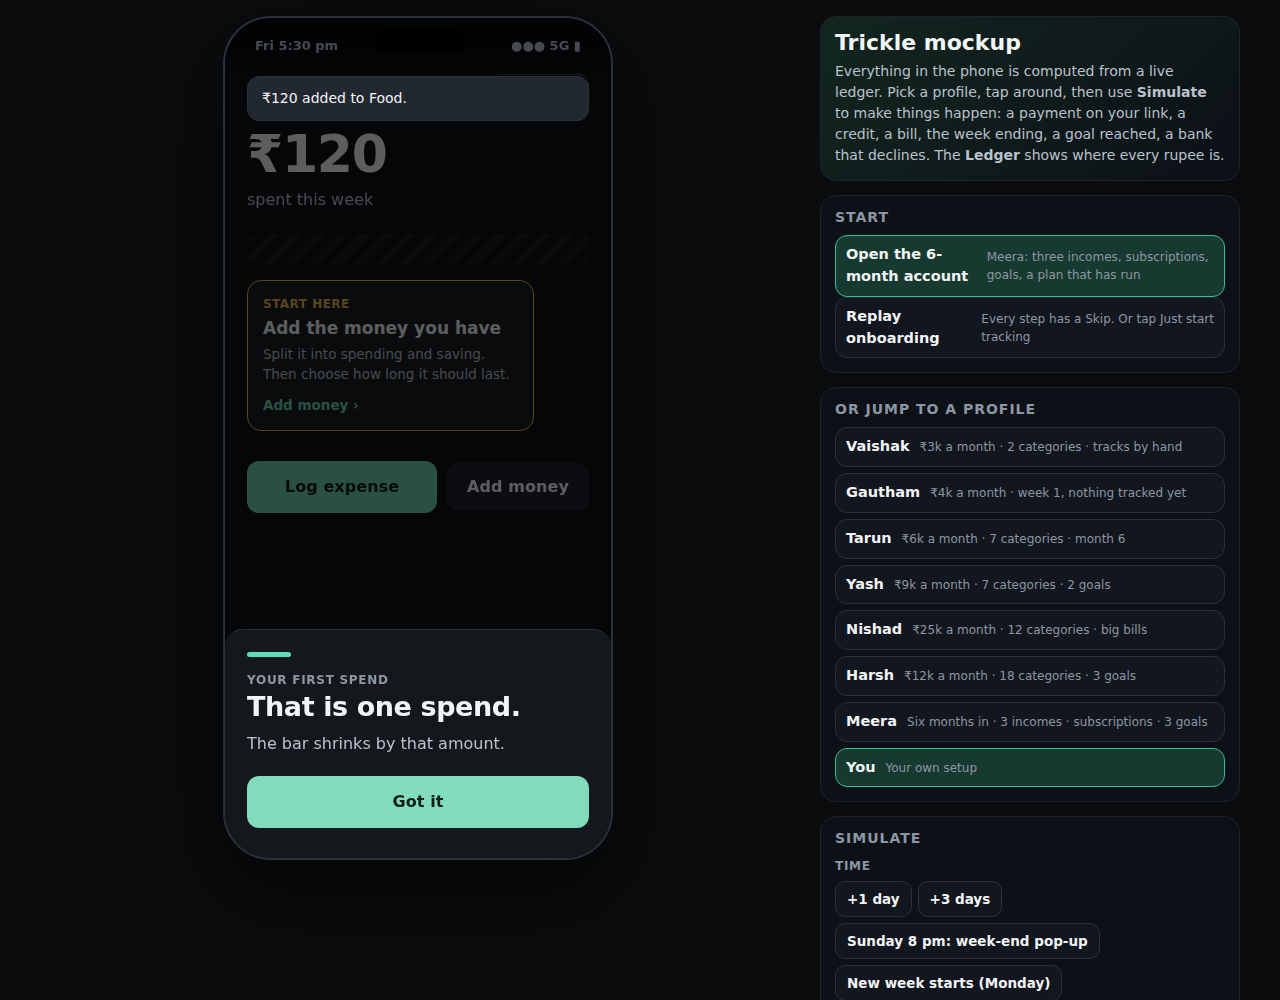
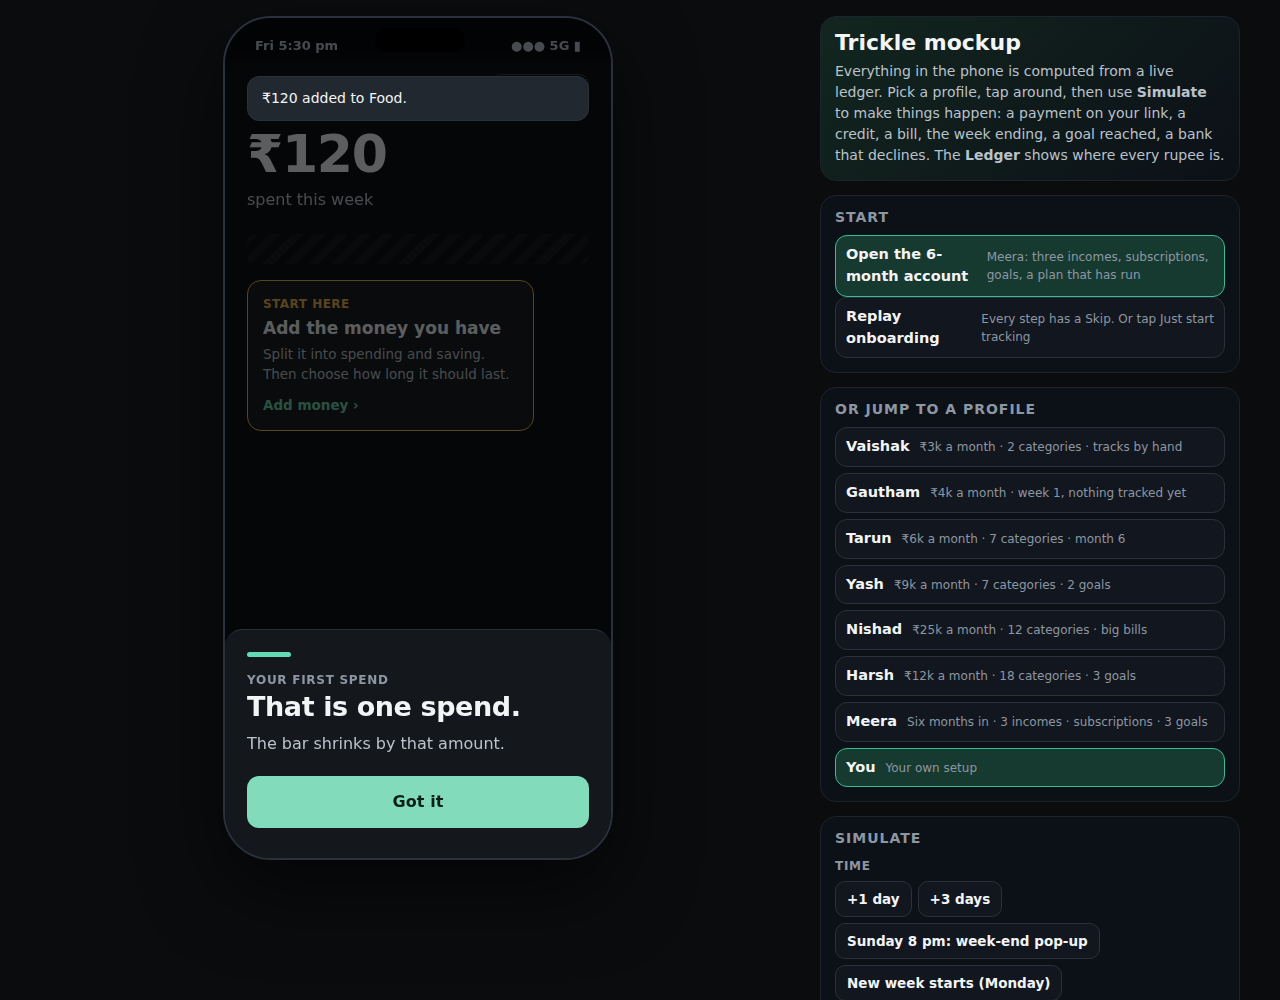
v17.10: buttons pinned low; recommended limit cards and quick limits under the insight cards; V17-32
Claude-Session: https://claude.ai/code/session_018X24G78A47pCQxY7X53pHo

Changed region(s): [[0.1875, 0.434, 0.3438, 0.527], [0.375, 0.465, 0.4375, 0.496]]

diff --git a/archive/session-workfiles/mockup17/mockup17.html b/archive/session-workfiles/mockup17/mockup17.html
@@ -2324,8 +2324,8 @@ SCREENS.home=()=>{const pl=planned();let top,viz,cap='';
   viz=`<div style="margin:22px 0 22px" data-a="gridhow">${battery(L,W,{col,tick:weekIdeal(),label:'Recommended'})}</div>`;
   cap=empty?'':`<div class="row sp" style="align-items:center;margin:0 0 14px"><span class="sub">${money(L/dl)} a day for ${dl===1?'today':dl+' days'}</span><button class="chip" data-a="gridhow">?</button></div>`}
  else{const tot=wkTot(0);top=tot?`<div class="hero" style="font-size:52px;line-height:1.05">${money(tot)}</div><div class="sub" style="margin-top:6px;font-size:16px">spent this week</div>`:`<div class="title" style="font-size:28px">Nothing logged yet.</div>`;viz=`<div style="margin:22px 0 14px"><div class="batt idle"></div></div>`}
- return `<div class="row sp" style="margin-top:2px"><span></span><button class="chip" data-a="settings">Settings</button></div><div style="margin-top:14px">${top}</div>${viz}${cap}${carousel17()}
- <div style="position:sticky;bottom:0;margin-top:18px;padding-top:10px"><div class="row" style="gap:10px"><button class="btn" style="flex:3" data-a="${scanOn()?'payscan':'pay'}">Log expense</button><button class="btn q" style="flex:2;white-space:nowrap" data-a="addmoney17">Add money</button></div></div>`};
+ return `<div style="min-height:100%;display:flex;flex-direction:column"><div class="row sp" style="margin-top:2px"><span></span><button class="chip" data-a="settings">Settings</button></div><div style="margin-top:14px">${top}</div>${viz}${cap}${carousel17()}${limitsHome17()}
+ <div style="position:sticky;bottom:-4px;margin:auto -22px 0;padding:14px 22px 6px;background:#0F1215"><div class="row" style="gap:10px"><button class="btn" style="flex:3" data-a="${scanOn()?'payscan':'pay'}">Log expense</button><button class="btn q" style="flex:2;white-space:nowrap" data-a="addmoney17">Add money</button></div></div></div>`};
 SHEETS.gridhow=()=>{const W=Math.max(1,flexW());return `<div class="title" style="font-size:24px;margin-bottom:14px">How to read the bar</div><div style="margin:6px 0 34px">${battery(W*.62,W,{tick:.45,label:'Recommended'})}</div><div class="col" style="gap:10px"><div class="sub">The bar is what you have left this week.</div><div class="sub">The line is what we recommend you have left by now.</div><div class="sub"><b style="color:#6FD3AE">Green</b>: on track. <b style="color:#E6B24F">Yellow</b>: below the line, spending fast. <b style="color:#F26B6B">Red</b>: nothing left.</div></div><div class="row sp" style="margin-top:18px"><button class="lnk" data-a="why|bar">Why a bar?</button><button class="btn s" data-a="closesheet" style="width:auto">OK</button></div>`};
 
 /* ---------- Spending: one list. Patterns and records are one tap down ---------- */
@@ -2618,6 +2618,18 @@ H.incedit=a=>{UI.flow.d.ev='';openSheet('amtedit',{which:a[0]});return false};
 SHEETS.amtedit=p=>{const d=UI.flow.d,t=amtOf(d.kp),sav=savCalc(d,t,d.pct===undefined?20:d.pct),cur=p.which==='sav'?sav:t-sav,v=amtOf(d.ev);
  return `<div class="cap">Of ${money(t)}</div><div class="title" style="font-size:26px;margin:2px 0 6px">${p.which==='sav'?'How much to save?':'How much to spend?'}</div><div class="field" style="font-size:32px">₹ ${d.ev||`<span style="color:var(--ink3)">${cur}</span>`}</div>${v>t?`<div class="sm" style="color:var(--amber);margin-top:6px">That is more than ${money(t)}. It will be ${money(t)}.</div>`:`<div class="sm" style="margin-top:6px">${v?(p.which==='sav'?`Then ${money(t-v)} is for spending.`:`Then ${money(t-v)} is saved.`):'Type a number, or tap Cancel.'}</div>`}${keypad('ev')}<div class="col" style="gap:8px;margin-top:10px"><button class="btn ${d.ev!==''?'':'d'}" data-a="${d.ev!==''?'amtdone|'+p.which:'x'}">Done</button><button class="btn q" data-a="closesheet">Cancel</button></div>`};
 H.amtdone=a=>{const d=UI.flow.d,t=amtOf(d.kp),v=Math.min(t,amtOf(d.ev)),sav=a[0]==='sav'?v:t-v;d.savX=sav;d.pct=t?Math.round(sav/t*100):0;d.ev='';UI.sheet=null};
+
+/* ===== v17.10 (10 Oct): limits live under the insight cards: recommended limits (one tap) and quick limits ===== */
+{const _car=carousel17;carousel17=function(){const c=cards17().filter(x=>x.tag!=='Limit');if(!c.length)return '';
+  return `<div class="car17" id="car17">${c.map(x=>`<button class="cd17${x.hot?' hot':''}" data-a="${x.a}"><span class="tg">${x.tag}</span><b>${esc(x.t)}</b>${x.sub?`<span class="sb">${esc(x.sub)}</span>`:''}${x.mini||''}${x.cta?`<span class="go">${x.cta} ›</span>`:''}</button>`).join('')}</div>${c.length>1?`<div class="dots17" id="dots17">${c.map((_,i)=>`<i class="${i?'':'on'}"></i>`).join('')}</div>`:''}`}}
+const limLabel17=(kind,cap)=>kind==='times'?`${cap} ${cap===1?'visit':'visits'} a week`:`${money(cap)} a week`;
+function limitsHome17(){if(!planned())return '';const sg=suggestions().slice(0,2),now=S.now.getTime(),used=new Set(sg.filter(s=>s.scope==='cat').map(s=>s.ref));
+ const rows=catTotals(now-7*DAY,now+1).filter(r=>r.id!=='_u'&&!used.has(r.id)&&!(S.limits||[]).some(l=>l.scope==='cat'&&l.ref===r.id)&&!S.limNo['c'+r.id]&&r.amt>0).slice(0,4);
+ const cards=sg.map(s=>{const cap=limDefault(s.scope,s.ref,s.kind);return `<div class="card" style="padding:12px 14px;margin-top:10px"><div class="cap" style="margin:0 0 4px">Recommended limit</div><b style="font-size:16px">${esc(s.short)}</b><div class="sm" style="margin-top:2px">${esc(s.text)}</div><div class="row" style="gap:8px;margin-top:10px"><button class="btn s" style="flex:2" data-a="limquick|${s.key}">Set ${limLabel17(s.kind,cap)}</button><button class="btn q s" style="flex:1" data-a="limsug|${s.key}">Change</button></div></div>`}).join('');
+ const chips=rows.length?`<div class="cap" style="margin:16px 0 8px">Quick limits</div><div class="row wrap" style="gap:8px">${rows.map(r=>`<button class="chip" data-a="limquickc|${r.id}">${esc(catName(r.id))} · ${money(limDefault('cat',r.id,'amt'))}</button>`).join('')}</div>`:'';
+ if(!cards&&!chips)return '';return `<div style="margin-top:6px">${cards}${chips}</div>`}
+H.limquick=a=>{const s=suggestions().find(x=>x.key===a[0]);if(!s)return false;S.limits=S.limits.filter(l=>!(l.scope===s.scope&&l.ref===s.ref));S.limits.push({id:'l'+(S.idc++),scope:s.scope,ref:s.ref,kind:s.kind,cap:limDefault(s.scope,s.ref,s.kind)});say('Limit set.');return false};
+H.limquickc=a=>{const id=a[0];if(!S.cats.some(c=>c.id===id))return false;S.limits=S.limits.filter(l=>!(l.scope==='cat'&&l.ref===id));S.limits.push({id:'l'+(S.idc++),scope:'cat',ref:id,kind:'amt',cap:limDefault('cat',id,'amt')});say(`Limit set for ${catName(id)}.`);return false};
 
 /* ===== control panel ===== */
 function loadProfile(k){S=newState(k);S.moneyIn=[{id:'m0',t:new Date(2026,9,1,9,0).getTime(),label:'Allowance',amt:S.p.income,note:''}];if(S.p.six)seedSix();else if(S.p.W>0){S.planSet=true;S.cats.forEach(c=>c.full=c.amt);S.bufFull=S.bufAmt;S.firstDay=new Date(S.now.getTime()-S.p.weeks*7*DAY)}resetUI();window._celeLock=false;render();fitPhone()}

diff --git a/archive/session-workfiles/mockup17/ui17e.js b/archive/session-workfiles/mockup17/ui17e.js
@@ -52,3 +52,15 @@ H.incedit=a=>{UI.flow.d.ev='';openSheet('amtedit',{which:a[0]});return false};
 SHEETS.amtedit=p=>{const d=UI.flow.d,t=amtOf(d.kp),sav=savCalc(d,t,d.pct===undefined?20:d.pct),cur=p.which==='sav'?sav:t-sav,v=amtOf(d.ev);
  return `<div class="cap">Of ${money(t)}</div><div class="title" style="font-size:26px;margin:2px 0 6px">${p.which==='sav'?'How much to save?':'How much to spend?'}</div><div class="field" style="font-size:32px">₹ ${d.ev||`<span style="color:var(--ink3)">${cur}</span>`}</div>${v>t?`<div class="sm" style="color:var(--amber);margin-top:6px">That is more than ${money(t)}. It will be ${money(t)}.</div>`:`<div class="sm" style="margin-top:6px">${v?(p.which==='sav'?`Then ${money(t-v)} is for spending.`:`Then ${money(t-v)} is saved.`):'Type a number, or tap Cancel.'}</div>`}${keypad('ev')}<div class="col" style="gap:8px;margin-top:10px"><button class="btn ${d.ev!==''?'':'d'}" data-a="${d.ev!==''?'amtdone|'+p.which:'x'}">Done</button><button class="btn q" data-a="closesheet">Cancel</button></div>`};
 H.amtdone=a=>{const d=UI.flow.d,t=amtOf(d.kp),v=Math.min(t,amtOf(d.ev)),sav=a[0]==='sav'?v:t-v;d.savX=sav;d.pct=t?Math.round(sav/t*100):0;d.ev='';UI.sheet=null};
+
+/* ===== v17.10 (10 Oct): limits live under the insight cards: recommended limits (one tap) and quick limits ===== */
+{const _car=carousel17;carousel17=function(){const c=cards17().filter(x=>x.tag!=='Limit');if(!c.length)return '';
+  return `<div class="car17" id="car17">${c.map(x=>`<button class="cd17${x.hot?' hot':''}" data-a="${x.a}"><span class="tg">${x.tag}</span><b>${esc(x.t)}</b>${x.sub?`<span class="sb">${esc(x.sub)}</span>`:''}${x.mini||''}${x.cta?`<span class="go">${x.cta} ›</span>`:''}</button>`).join('')}</div>${c.length>1?`<div class="dots17" id="dots17">${c.map((_,i)=>`<i class="${i?'':'on'}"></i>`).join('')}</div>`:''}`}}
+const limLabel17=(kind,cap)=>kind==='times'?`${cap} ${cap===1?'visit':'visits'} a week`:`${money(cap)} a week`;
+function limitsHome17(){if(!planned())return '';const sg=suggestions().slice(0,2),now=S.now.getTime(),used=new Set(sg.filter(s=>s.scope==='cat').map(s=>s.ref));
+ const rows=catTotals(now-7*DAY,now+1).filter(r=>r.id!=='_u'&&!used.has(r.id)&&!(S.limits||[]).some(l=>l.scope==='cat'&&l.ref===r.id)&&!S.limNo['c'+r.id]&&r.amt>0).slice(0,4);
+ const cards=sg.map(s=>{const cap=limDefault(s.scope,s.ref,s.kind);return `<div class="card" style="padding:12px 14px;margin-top:10px"><div class="cap" style="margin:0 0 4px">Recommended limit</div><b style="font-size:16px">${esc(s.short)}</b><div class="sm" style="margin-top:2px">${esc(s.text)}</div><div class="row" style="gap:8px;margin-top:10px"><button class="btn s" style="flex:2" data-a="limquick|${s.key}">Set ${limLabel17(s.kind,cap)}</button><button class="btn q s" style="flex:1" data-a="limsug|${s.key}">Change</button></div></div>`}).join('');
+ const chips=rows.length?`<div class="cap" style="margin:16px 0 8px">Quick limits</div><div class="row wrap" style="gap:8px">${rows.map(r=>`<button class="chip" data-a="limquickc|${r.id}">${esc(catName(r.id))} · ${money(limDefault('cat',r.id,'amt'))}</button>`).join('')}</div>`:'';
+ if(!cards&&!chips)return '';return `<div style="margin-top:6px">${cards}${chips}</div>`}
+H.limquick=a=>{const s=suggestions().find(x=>x.key===a[0]);if(!s)return false;S.limits=S.limits.filter(l=>!(l.scope===s.scope&&l.ref===s.ref));S.limits.push({id:'l'+(S.idc++),scope:s.scope,ref:s.ref,kind:s.kind,cap:limDefault(s.scope,s.ref,s.kind)});say('Limit set.');return false};
+H.limquickc=a=>{const id=a[0];if(!S.cats.some(c=>c.id===id))return false;S.limits=S.limits.filter(l=>!(l.scope==='cat'&&l.ref===id));S.limits.push({id:'l'+(S.idc++),scope:'cat',ref:id,kind:'amt',cap:limDefault('cat',id,'amt')});say(`Limit set for ${catName(id)}.`);return false};

diff --git a/archive/session-workfiles/mockup17/ui17.js b/archive/session-workfiles/mockup17/ui17.js
@@ -17,8 +17,8 @@ SCREENS.home=()=>{const pl=planned();let top,viz,cap='';
   viz=`<div style="margin:22px 0 22px" data-a="gridhow">${battery(L,W,{col,tick:weekIdeal(),label:'Recommended'})}</div>`;
   cap=empty?'':`<div class="row sp" style="align-items:center;margin:0 0 14px"><span class="sub">${money(L/dl)} a day for ${dl===1?'today':dl+' days'}</span><button class="chip" data-a="gridhow">?</button></div>`}
  else{const tot=wkTot(0);top=tot?`<div class="hero" style="font-size:52px;line-height:1.05">${money(tot)}</div><div class="sub" style="margin-top:6px;font-size:16px">spent this week</div>`:`<div class="title" style="font-size:28px">Nothing logged yet.</div>`;viz=`<div style="margin:22px 0 14px"><div class="batt idle"></div></div>`}
- return `<div class="row sp" style="margin-top:2px"><span></span><button class="chip" data-a="settings">Settings</button></div><div style="margin-top:14px">${top}</div>${viz}${cap}${carousel17()}
- <div style="position:sticky;bottom:0;margin-top:18px;padding-top:10px"><div class="row" style="gap:10px"><button class="btn" style="flex:3" data-a="${scanOn()?'payscan':'pay'}">Log expense</button><button class="btn q" style="flex:2;white-space:nowrap" data-a="addmoney17">Add money</button></div></div>`};
+ return `<div style="min-height:100%;display:flex;flex-direction:column"><div class="row sp" style="margin-top:2px"><span></span><button class="chip" data-a="settings">Settings</button></div><div style="margin-top:14px">${top}</div>${viz}${cap}${carousel17()}${limitsHome17()}
+ <div style="position:sticky;bottom:-4px;margin:auto -22px 0;padding:14px 22px 6px;background:#0F1215"><div class="row" style="gap:10px"><button class="btn" style="flex:3" data-a="${scanOn()?'payscan':'pay'}">Log expense</button><button class="btn q" style="flex:2;white-space:nowrap" data-a="addmoney17">Add money</button></div></div></div>`};
 SHEETS.gridhow=()=>{const W=Math.max(1,flexW());return `<div class="title" style="font-size:24px;margin-bottom:14px">How to read the bar</div><div style="margin:6px 0 34px">${battery(W*.62,W,{tick:.45,label:'Recommended'})}</div><div class="col" style="gap:10px"><div class="sub">The bar is what you have left this week.</div><div class="sub">The line is what we recommend you have left by now.</div><div class="sub"><b style="color:#6FD3AE">Green</b>: on track. <b style="color:#E6B24F">Yellow</b>: below the line, spending fast. <b style="color:#F26B6B">Red</b>: nothing left.</div></div><div class="row sp" style="margin-top:18px"><button class="lnk" data-a="why|bar">Why a bar?</button><button class="btn s" data-a="closesheet" style="width:auto">OK</button></div>`};
 
 /* ---------- Spending: one list. Patterns and records are one tap down ---------- */

diff --git a/docs/claude/v14_decisions.md b/docs/claude/v14_decisions.md
@@ -625,3 +625,8 @@ Tarun, 8 Oct, verbatim: "the reviews I got from user testing are the information
 | ID | Domain | Evidence | Validation gate | Status |
 |---|---|---|---|---|
 | V17-31 | Split input | Tarun: "I should be able to tap and manually input the number" on "How much will you save?". The save and spend amounts (underlined) open a keypad; the slider and percentage follow. An amount above the total is capped to the total. The exact typed number is kept (the slider alone still rounds to ₹10). | Can a tester enter exactly ₹3,700? | CONFIRMED (Tarun) |
+
+### V17-32 (10 Oct, Tarun): Home layout. CONFIRMED (his words); the one-tap defaults are mine.
+| ID | Domain | Evidence | Validation gate | Status |
+|---|---|---|---|---|
+| V17-32 | Home layout and limits | Tarun: move Log expense lower; in the space below the insight cards show the recommended limit cards and quick limits. Log expense and Add money are pinned just above the tab bar. Limit recommendations left the card carousel and now sit under it as cards with "Set <limit>" (one tap) and "Change", then "Quick limits" chips (a category and a suggested weekly amount, one tap to set). The suggested amounts come from the last 14 days (existing rule, mine). | Do testers set a limit from Home without opening Spending? | CONFIRMED (Tarun) for the layout; amounts PROPOSED |
